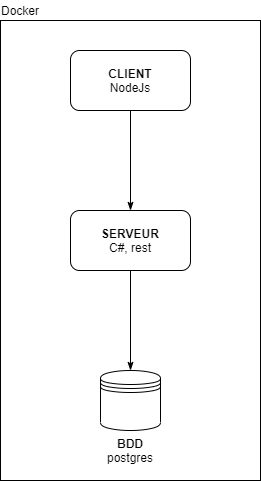
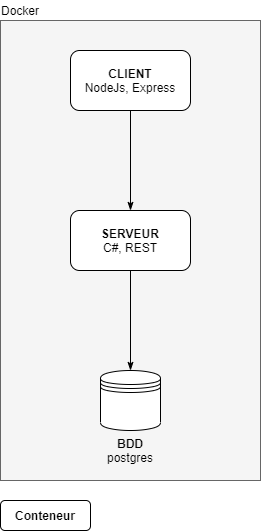
Documentation

diff --git a/README.md b/README.md
@@ -1,14 +1,18 @@
 # Quidditch Project - IUTM
 
 > Participants :
-> - Kevin JUNCK
-> - Loïc STEINMETZ
+> - [Kevin JUNCK](https://github.com/novachrono67)
+> - [Loïc STEINMETZ](https://github.com/B4va)
+
+Le projet consiste en une API permettant de gérer les résultats des différents championnats de quidditch de l'école de
+Poudelard. Il propose également un client web pour pouvoir accéder et gérer ces informations.
 
 ## Conception
 
 ### Architecture générale
 
 Le projet fonctionne sur la base de trois conteneurs **Docker** :
+
 - Une base de données **PostgresSQL**
 - Une application serveur, développée en **C#** suivant l'architecture **REST**.
 - Une application client, développée en **JavaScript** via **Node**.
@@ -21,8 +25,313 @@ La base de données est configurée et alimentée via le script `database/init.s
 
 **Schéma Entités-Associations :**
 
-![schéma EA](./img_readme/conception-bdd.png)
+![Schéma EA](./img_readme/conception-bdd.png)
 
 **Schéma Relationnel**
 
-*TODO*
+° = clé primaire
+\# = clé étrangère
+
+```
+championship(°id, year, name)
+club(°id, name)
+team(°id, name, logo, #championship_id, #club_id)
+match(°id, status, #home_team, #visitor_team, date_match, time_match)
+player(°id, firstname, lastname, date_of_birth, number, #club_id)
+event(°id, time, description, type, #match_id, #player_id)
+```
+
+### Cas d'utilisation
+
+![Cas d'utilisation](./img_readme/conception-cas-utilisation.png)
+
+## Endpoints API
+
+**Championnats :**
+
+```
+GET /championships
+
+params url : aucun
+
+résultat : informations sur tous les championnats
+
+[
+    {
+        "id": 1,
+        "year": 2000,
+        "name": "Championnat de Poudelard 2000"
+    },
+    ...
+]
+```
+
+```
+GET /championship/:id
+
+params url :
+    - id : identifiant du championnat
+
+résultat : informations détaillées d'un championnat
+
+{
+   "id": 1,
+   "year": 2000,
+   "name": "Championnat de Poudelard 2000"
+   "teams": [
+       {
+           "id": 1,
+           "name": Gryffondor 2000,
+           "logo": data,
+           "points": 8
+       },
+       ...
+   ]
+}
+```
+
+```
+GET /championship/:id/matches
+
+params url :
+    - id : identifiant du championnat
+
+résultat : informations sur les matchs d'un championnat
+
+{
+   "id": 1,
+   "year": 2000,
+   "name": "Championnat de Poudelard 2000"
+   "matches": [
+       {
+           "id": 1,
+           "type": 1,
+           "date": "01-01-2000 18:00",
+           "status": 1,
+           "goldenSnitch": false,
+           "homeTeam": {
+               "id": 1,
+               "name": "Gryffondor 2000",
+               "score": 18
+           },
+           "visitorTeam": {
+               "id": 1,
+               "name": "Serpentard 2000",
+               "score": 12
+           }
+       },
+       ...
+   ]
+}
+```
+
+```
+GET /championship/:id/teams
+
+params url : aucun
+
+résultat : informations détaillées du dernier championnat
+
+{
+   "id": 1,
+   "year": 2000,
+   "name": "Championnat de Poudelard 2000"
+   "teams": [
+       {
+           "id": 1,
+           "name": "Gryffondor 2000",
+           "logo": data,
+           "points": 8
+       },
+       ...
+   ]
+}
+```
+
+**Equipes :**
+
+```
+GET teams/:id
+
+params url :
+    - id : identifiant de l'équipe
+
+résultat : informations détaillées d'une équipe
+
+{
+   "id": 1,
+   "name": "Gryffondor 2000",
+   "logo": data,
+   "club": {
+       "id": 1,
+       "nom": "Gryffondor"
+   },
+   "matches": [
+       {
+           "id": 1,
+           "status": 1,
+           "date": "01-01-2000",
+           "time": "16:00"
+           "home": true,
+           "opponent": {
+               "id": 4,
+               "name": "Serpentard",
+               "logo": data
+           },
+           "scoreHome": 1,
+           "scoreVisitor": 2,
+           "goldenSnitch": true
+       },
+       ...
+   ]
+}
+```
+
+**Clubs :**
+
+```
+GET /clubs
+
+params url :
+    - id : identifiant du club
+
+résultat : informations de l'ensemble des clubs
+
+[
+    {
+        "id": 1,
+        "name": "Griffondor",
+        "teams": [
+            {
+                "id": 1,
+                "name": "Griffondor 2000"
+            },
+            ...
+        ]
+    },
+    ...
+]
+```
+
+```
+GET /clubs/:id
+
+params url : aucun
+
+résultat : informations détaillées d'un club
+
+{
+    "id": 1,
+    "name": "Griffondor",
+    "teams": [
+        {
+            "id": 1,
+            "name": "Griffondor 2000",
+            "championship_id": 1
+        },
+        ...
+    ]
+}
+```
+
+**Matchs :**
+
+```
+GET /matches/:id
+
+params url :
+    - id : identifiant du match
+
+résultat : informations détaillées d'un match
+
+{
+    "id": 1,
+    "status": 1,
+    "date": "01-01-2000",
+    "time": "16:00"
+    "home": {
+       "id": 1,
+       "name": "Griffondor",
+       "logo": data
+    },
+    "visitor": {
+       "id": 4,
+       "name": "Serpentard",
+       "logo": data
+    },
+    "scoreHome": 1,
+    "scoreVisitor": 2,
+    "goldenSnitch": true
+    "events": [
+        {
+            "id": 1,
+            "time": 42,
+            "description": "Faute de Serpentard",
+            "type": 1,
+            "player": {
+                "name": "Drago Malfoy",
+                "number": 10
+            }
+        },
+        ...
+    ]
+}
+```
+
+```
+PATCH /matches/:id
+
+params url :
+    - id : identifiant du match
+
+résultat : lancement d'un match si pas déjà commencé ; arrêt si match en cours
+
+{
+    "id": 1,
+    "status": 1
+}
+```
+
+```
+POST /matches/:id/event
+
+params URL :
+    - id : identifiant du match
+
+params POST :
+
+{
+    "matchId": 1,
+    "description": "Faute de Serpentard",
+    "type": 1,
+    "playerId": 4
+}
+
+résultat : création d'un événement associé à un match
+
+{
+    "id": 1,
+    "time": 42,
+    "description": "Faute de Serpentard",
+    "type": 1,
+    "player": {
+        "name": "Drago Malfoy",
+        "number": 10
+    }
+}
+```
+
+**Événement :**
+
+```
+DELETE /events/:id
+
+params URL :
+    - id : identifiant de l'événement
+
+résultat : suppression d'un événement
+
+{
+    "success": true
+}
+```
